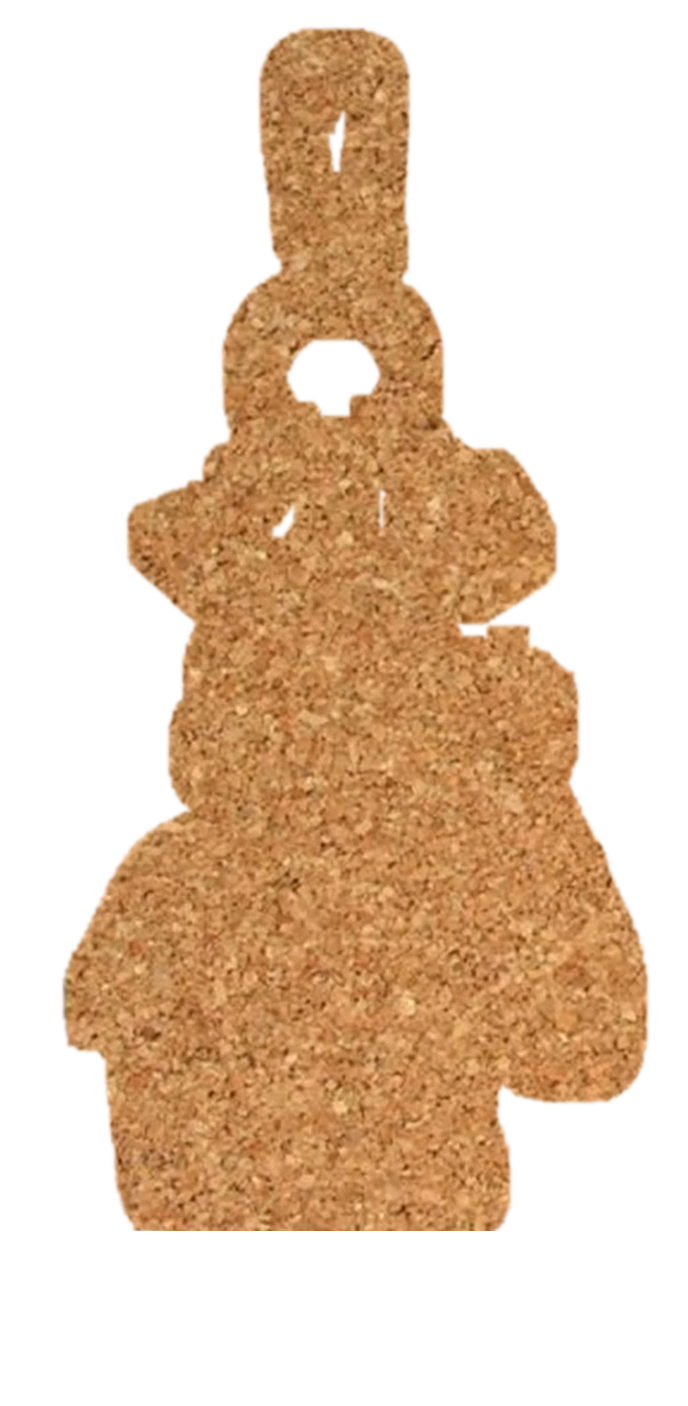
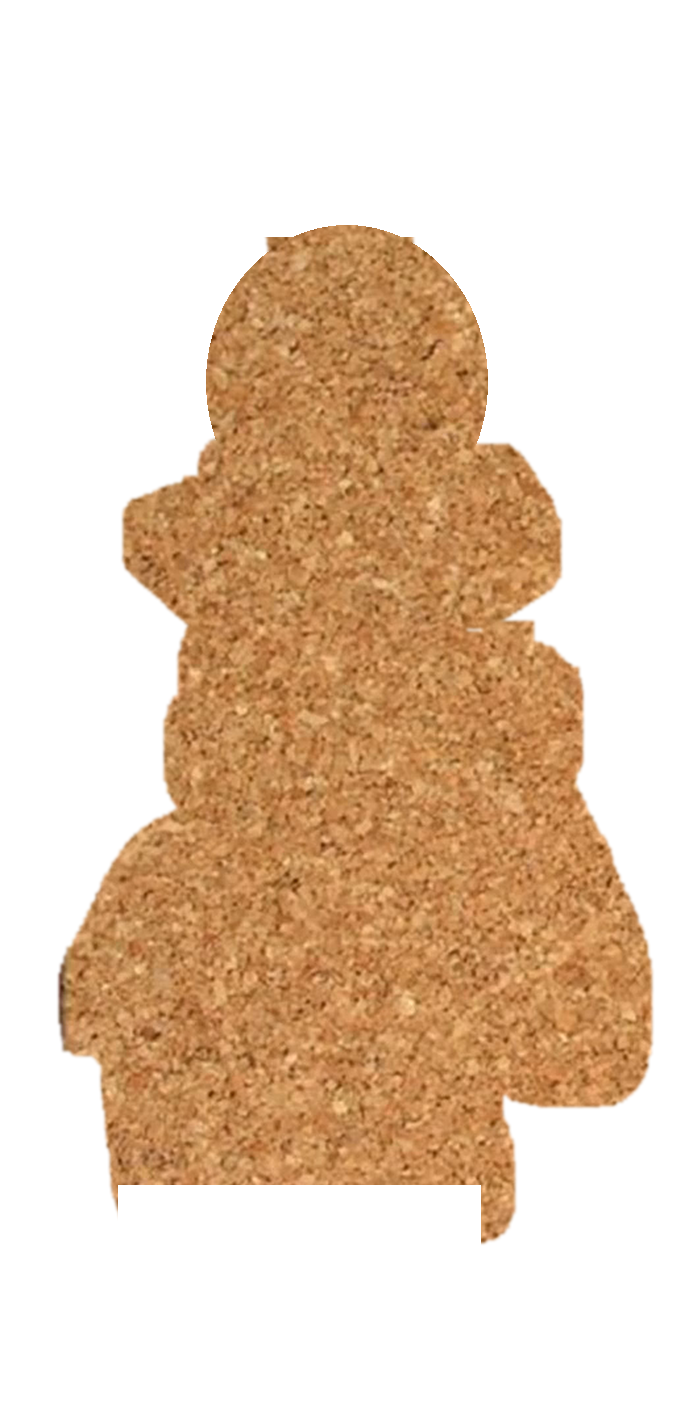
Preserve pin and about sticker during keychain swing

diff --git a/app/globals.css b/app/globals.css
@@ -12,9 +12,10 @@ button, a { font: inherit; color: inherit; }
 .motion-film { position: absolute; inset: 0; display: block; width: 100%; height: 100%; object-fit: fill; }
 .keychain-hover-art { position: absolute; z-index: 1; left: 13.958%; top: 9.506%; width: 23.889%; height: 86.79%; opacity: 0; pointer-events: none; }
 .home-ready .keychain-hover-art.is-active { opacity: 1; }
-.keychain-eraser, .keychain-swing { position: absolute; inset: 0; display: block; width: 100%; height: 100%; }
+.keychain-eraser, .keychain-swing-window, .keychain-swing { position: absolute; inset: 0; display: block; width: 100%; height: 100%; }
 .keychain-eraser { object-fit: fill; }
-.keychain-swing { object-fit: fill; transform-origin: 50% 4%; }
+.keychain-swing-window { overflow: hidden; clip-path: inset(16.8% 0 0); }
+.keychain-swing { object-fit: fill; transform-origin: 50% 16.8%; }
 .home-ready .keychain-hover-art.is-active .keychain-swing { animation: keychain-swing 1.9s ease-in-out both; }
 .hotspots { position: absolute; inset: 0; pointer-events: none; }
 .hotspot { position: absolute; border: 0; border-radius: 18px; background: transparent; cursor: pointer; opacity: 0; pointer-events: none; transition: opacity 160ms ease, background-color 160ms ease, box-shadow 160ms ease; }

diff --git a/app/page.tsx b/app/page.tsx
@@ -161,7 +161,9 @@ export default function Home() {
 
           <div className={`keychain-hover-art ${keychainActive ? 'is-active' : ''}`} aria-hidden="true">
             <img className="keychain-eraser" src="/keychain-eraser.png" alt="" />
-            <img className="keychain-swing" src="/keychain.png" alt="" />
+            <span className="keychain-swing-window">
+              <img className="keychain-swing" src="/keychain.png" alt="" />
+            </span>
           </div>
 
           <div className="hotspots" aria-hidden={!homeReady}>
